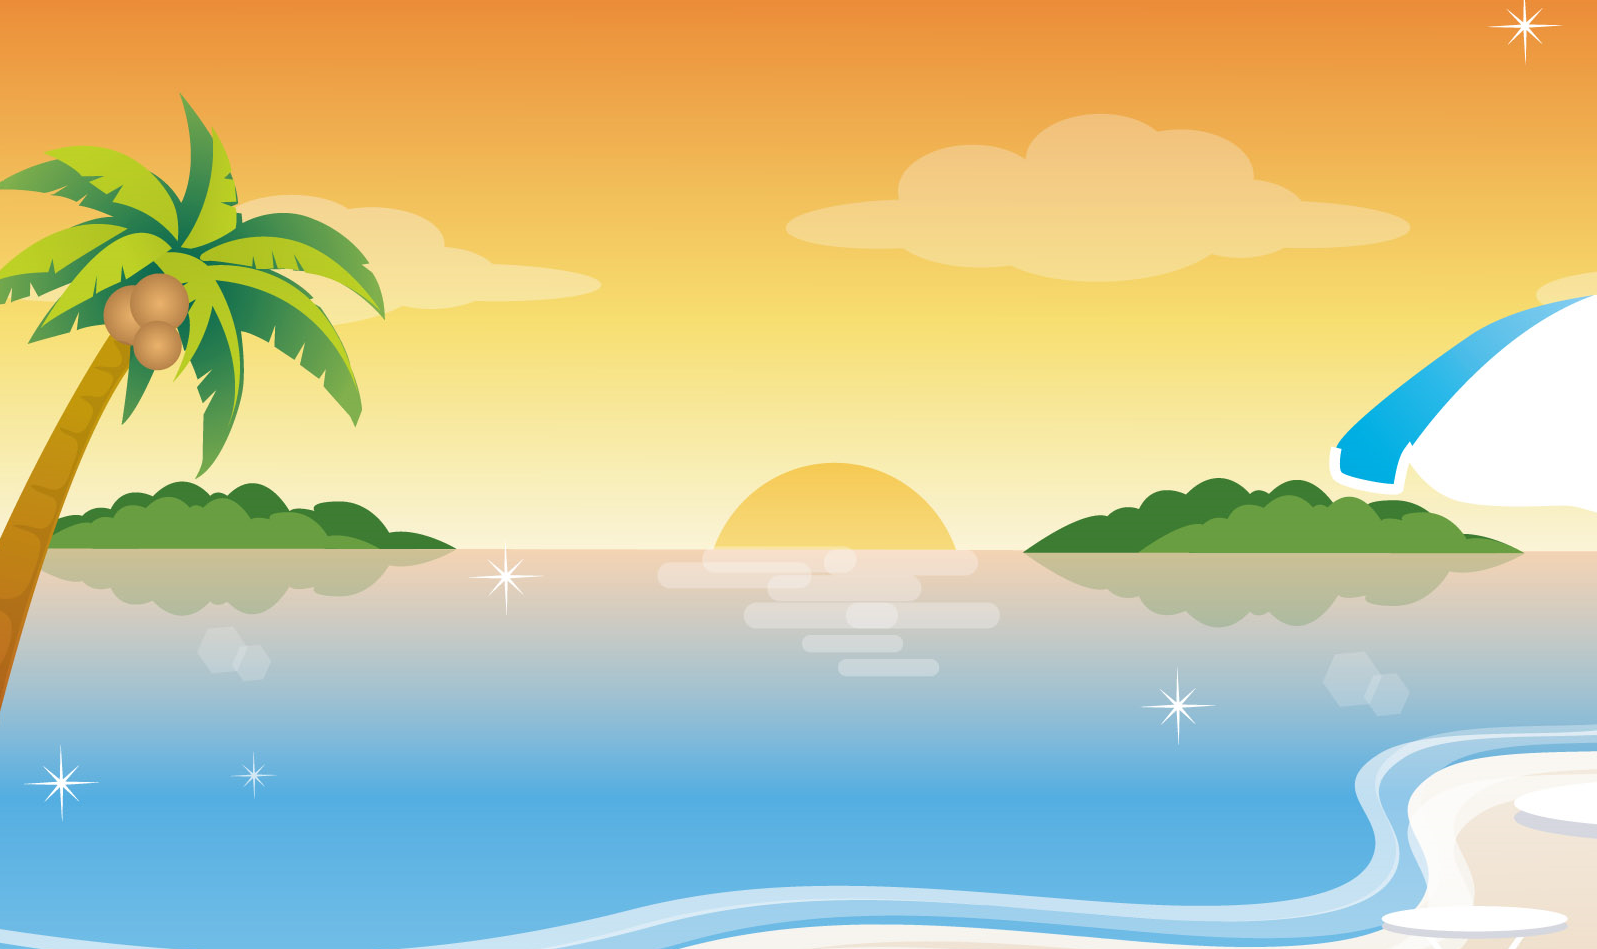
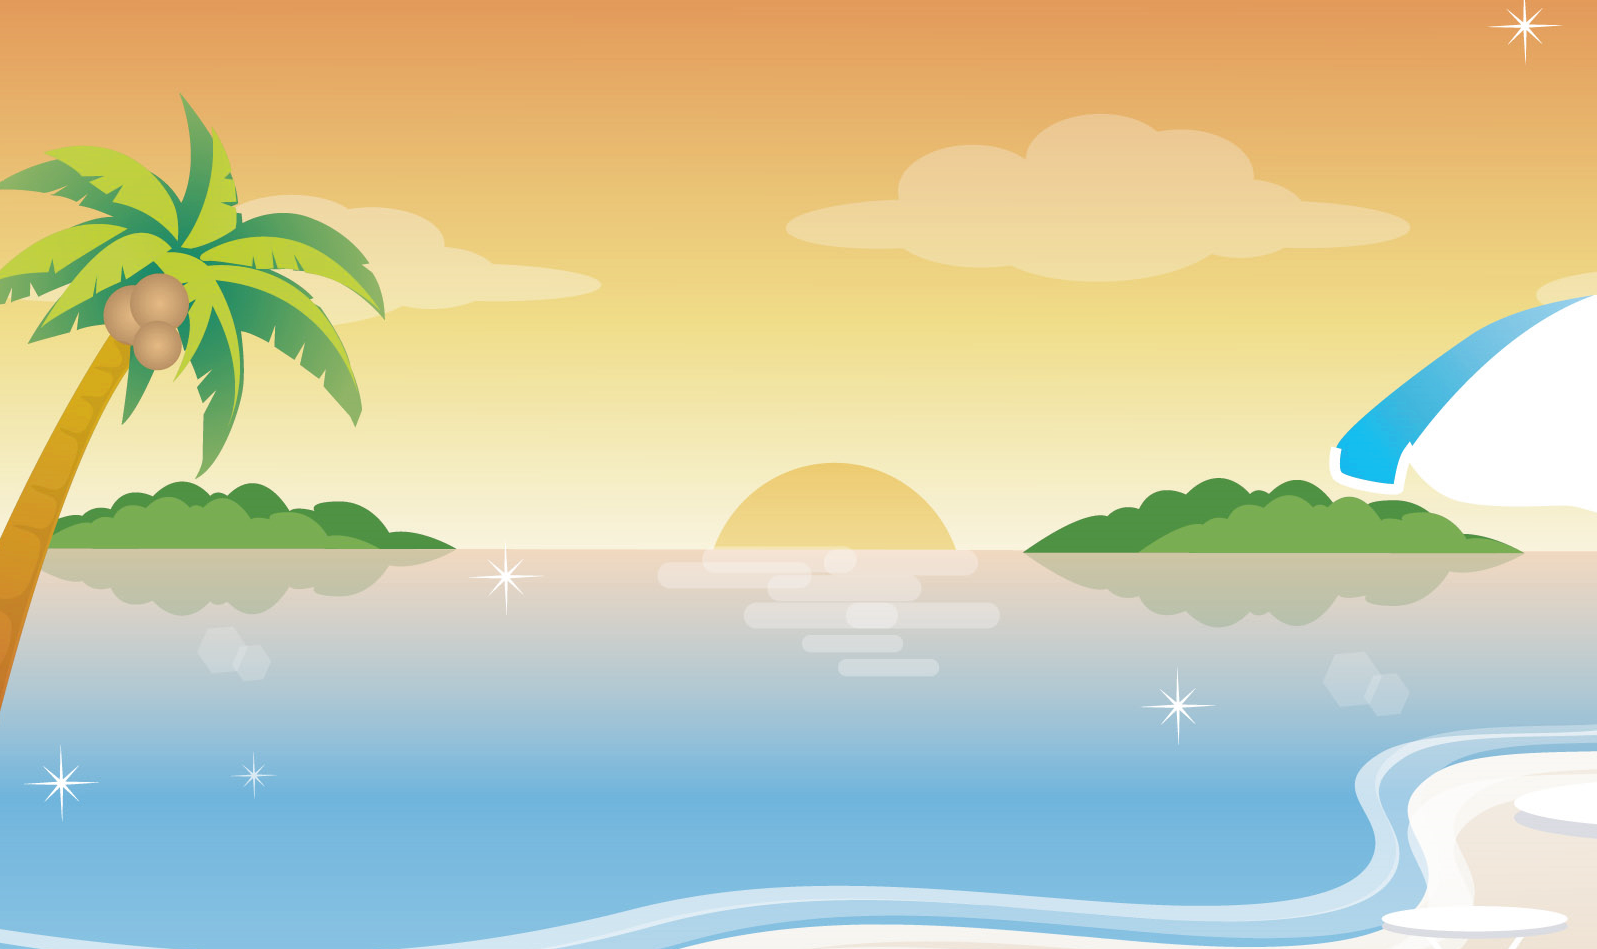
Unsaturated background

diff --git a/src/view/SetUp.java b/src/view/SetUp.java
@@ -21,6 +21,7 @@ import javafx.scene.layout.BackgroundSize;
 import javafx.scene.layout.HBox;
 import javafx.scene.layout.VBox;
 import javafx.scene.paint.Color;
+import javafx.scene.shape.Rectangle;
 import javafx.scene.text.Font;
 import javafx.scene.text.Text;
 import javafx.scene.text.TextAlignment;
@@ -136,6 +137,14 @@ public final class SetUp {
      * @return Scene the instructions scene
      */
     public static void setUpInstructionsScreen(GameGUI view) {
+        Rectangle r = new Rectangle();
+        r.setLayoutX(SCREEN_WIDTH * .09);
+        r.setLayoutY(SCREEN_HEIGHT * .07);
+        r.setWidth(SCREEN_WIDTH * .82);
+        r.setHeight(SCREEN_HEIGHT * .84);
+        r.setFill(Color.BEIGE);
+        r.setOpacity(0.5);
+        
         Text instructionsText = new Text();
         instructionsText.setText("In this assessment, for each question you will be shown a pair of letters. "
                 + "Decide which letter comes later in the alphabet. "
@@ -156,7 +165,7 @@ public final class SetUp {
         view.getNext().setPrefWidth(SCREEN_WIDTH * .06);
         view.getNext().setLayoutX(SCREEN_WIDTH / 2 - view.getNext().getPrefWidth() / 2);        
         view.getNext().setLayoutY(SCREEN_HEIGHT * .83);
-        view.getLayout().getChildren().setAll(instructionsText, view.getNext());
+        view.getLayout().getChildren().setAll(r, instructionsText, view.getNext());
     }
     
     /**

diff --git a/src/controller/GameController.java b/src/controller/GameController.java
@@ -11,7 +11,7 @@ package controller;
 public interface GameController {
     
     /** Number of rounds. One round is one pair of options. */
-    public static final int NUM_ROUNDS = 1000;
+    public static final int NUM_ROUNDS = 80;
     
     /** Number of practice rounds. */
     public static final int NUM_PRACTICE_ROUNDS = 10;
